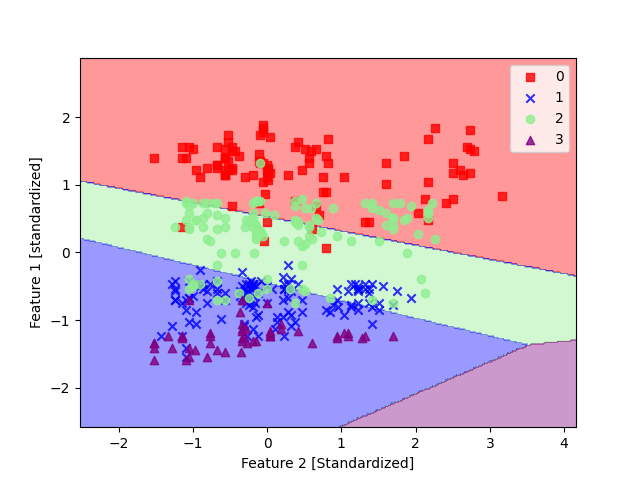
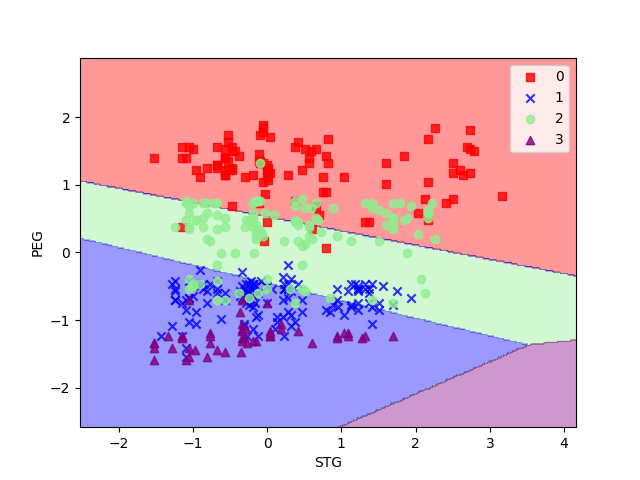
some clean up

Changed region(s): [[0.375, 0.9375, 0.6562, 1.0], [0.0312, 0.3125, 0.0625, 0.6875]]

diff --git a/HW/HW1/SmithEvanEE4331HW1/Part1/hw1-perceptron.py b/HW/HW1/SmithEvanEE4331HW1/Part1/hw1-perceptron.py
@@ -201,8 +201,8 @@ y_combined=np.hstack((y_train,y_test))
 plot_decision_regions(X=X_combined_std, y=y_combined, classifier=ppn1)
 
 #plot with labels and legend
-plt.xlabel('Feature 2 [Standardized]')
-plt.ylabel('Feature 1 [standardized]')
+plt.xlabel(X_train_df.columns[0])
+plt.ylabel(X_train_df.columns[1])
 plt.legend()
 
 #Save plot ---> LEAP requires this part

diff --git a/HW/HW1/SmithEvanEE4331HW1/Part2/hw1-log-reg.py b/HW/HW1/SmithEvanEE4331HW1/Part2/hw1-log-reg.py
@@ -205,8 +205,8 @@ y_combined=np.hstack((y_train,y_test))
 plot_decision_regions(X=X_combined_std, y=y_combined, classifier=lr1)
 
 #plot with labels and legend
-plt.xlabel('Feature 2 [Standardized]')
-plt.ylabel('Feature 1 [standardized]')
+plt.xlabel(X_train_df.columns[0])
+plt.ylabel(X_train_df.columns[1])
 plt.legend()
 
 #Save plot ---> LEAP requires this part
